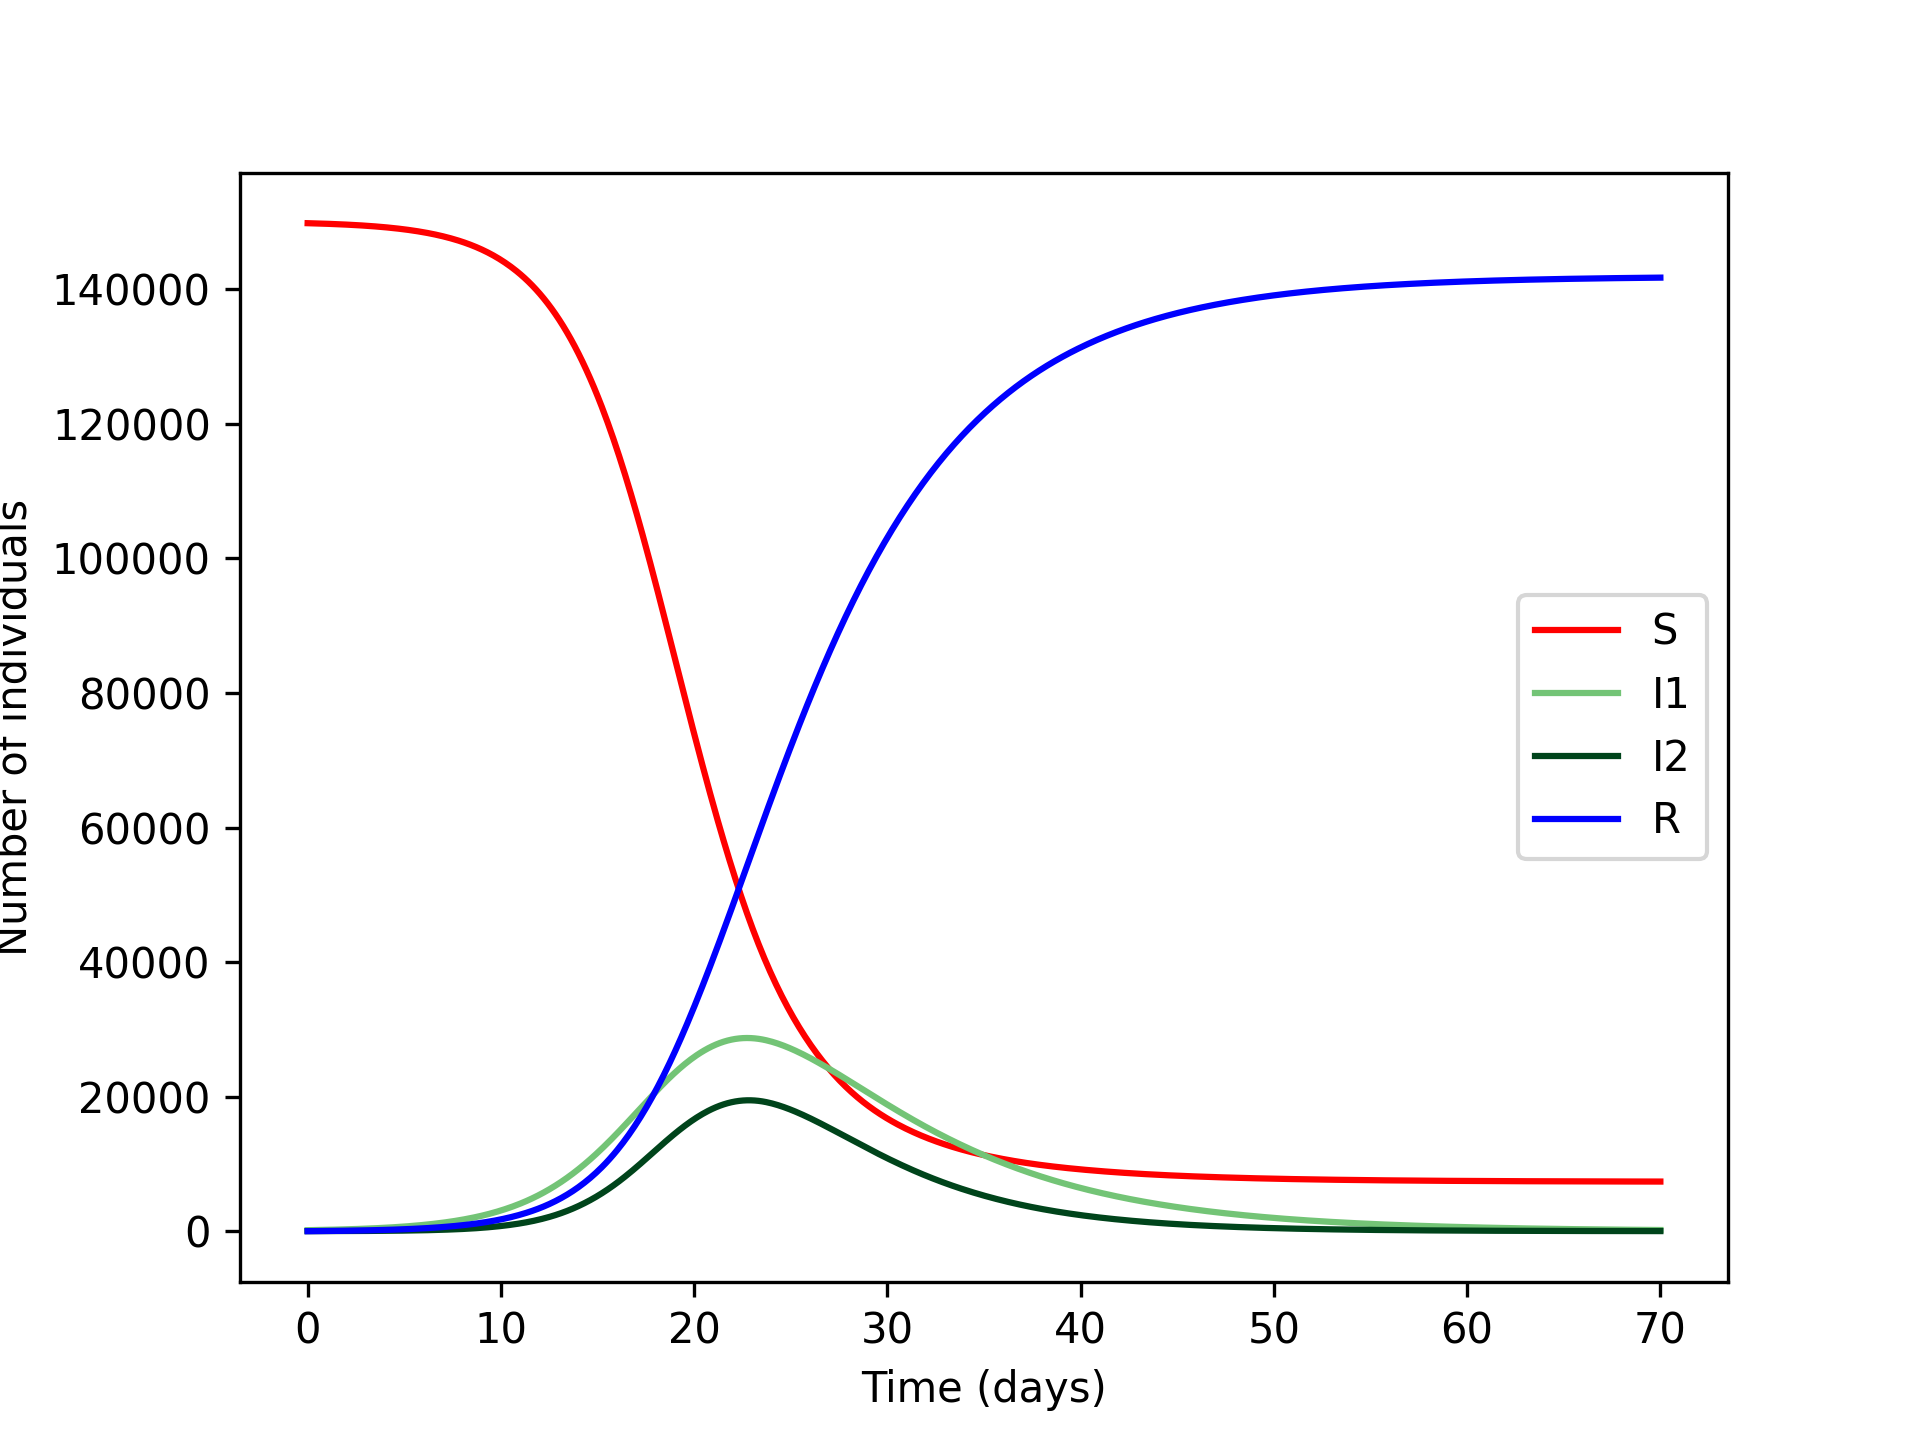
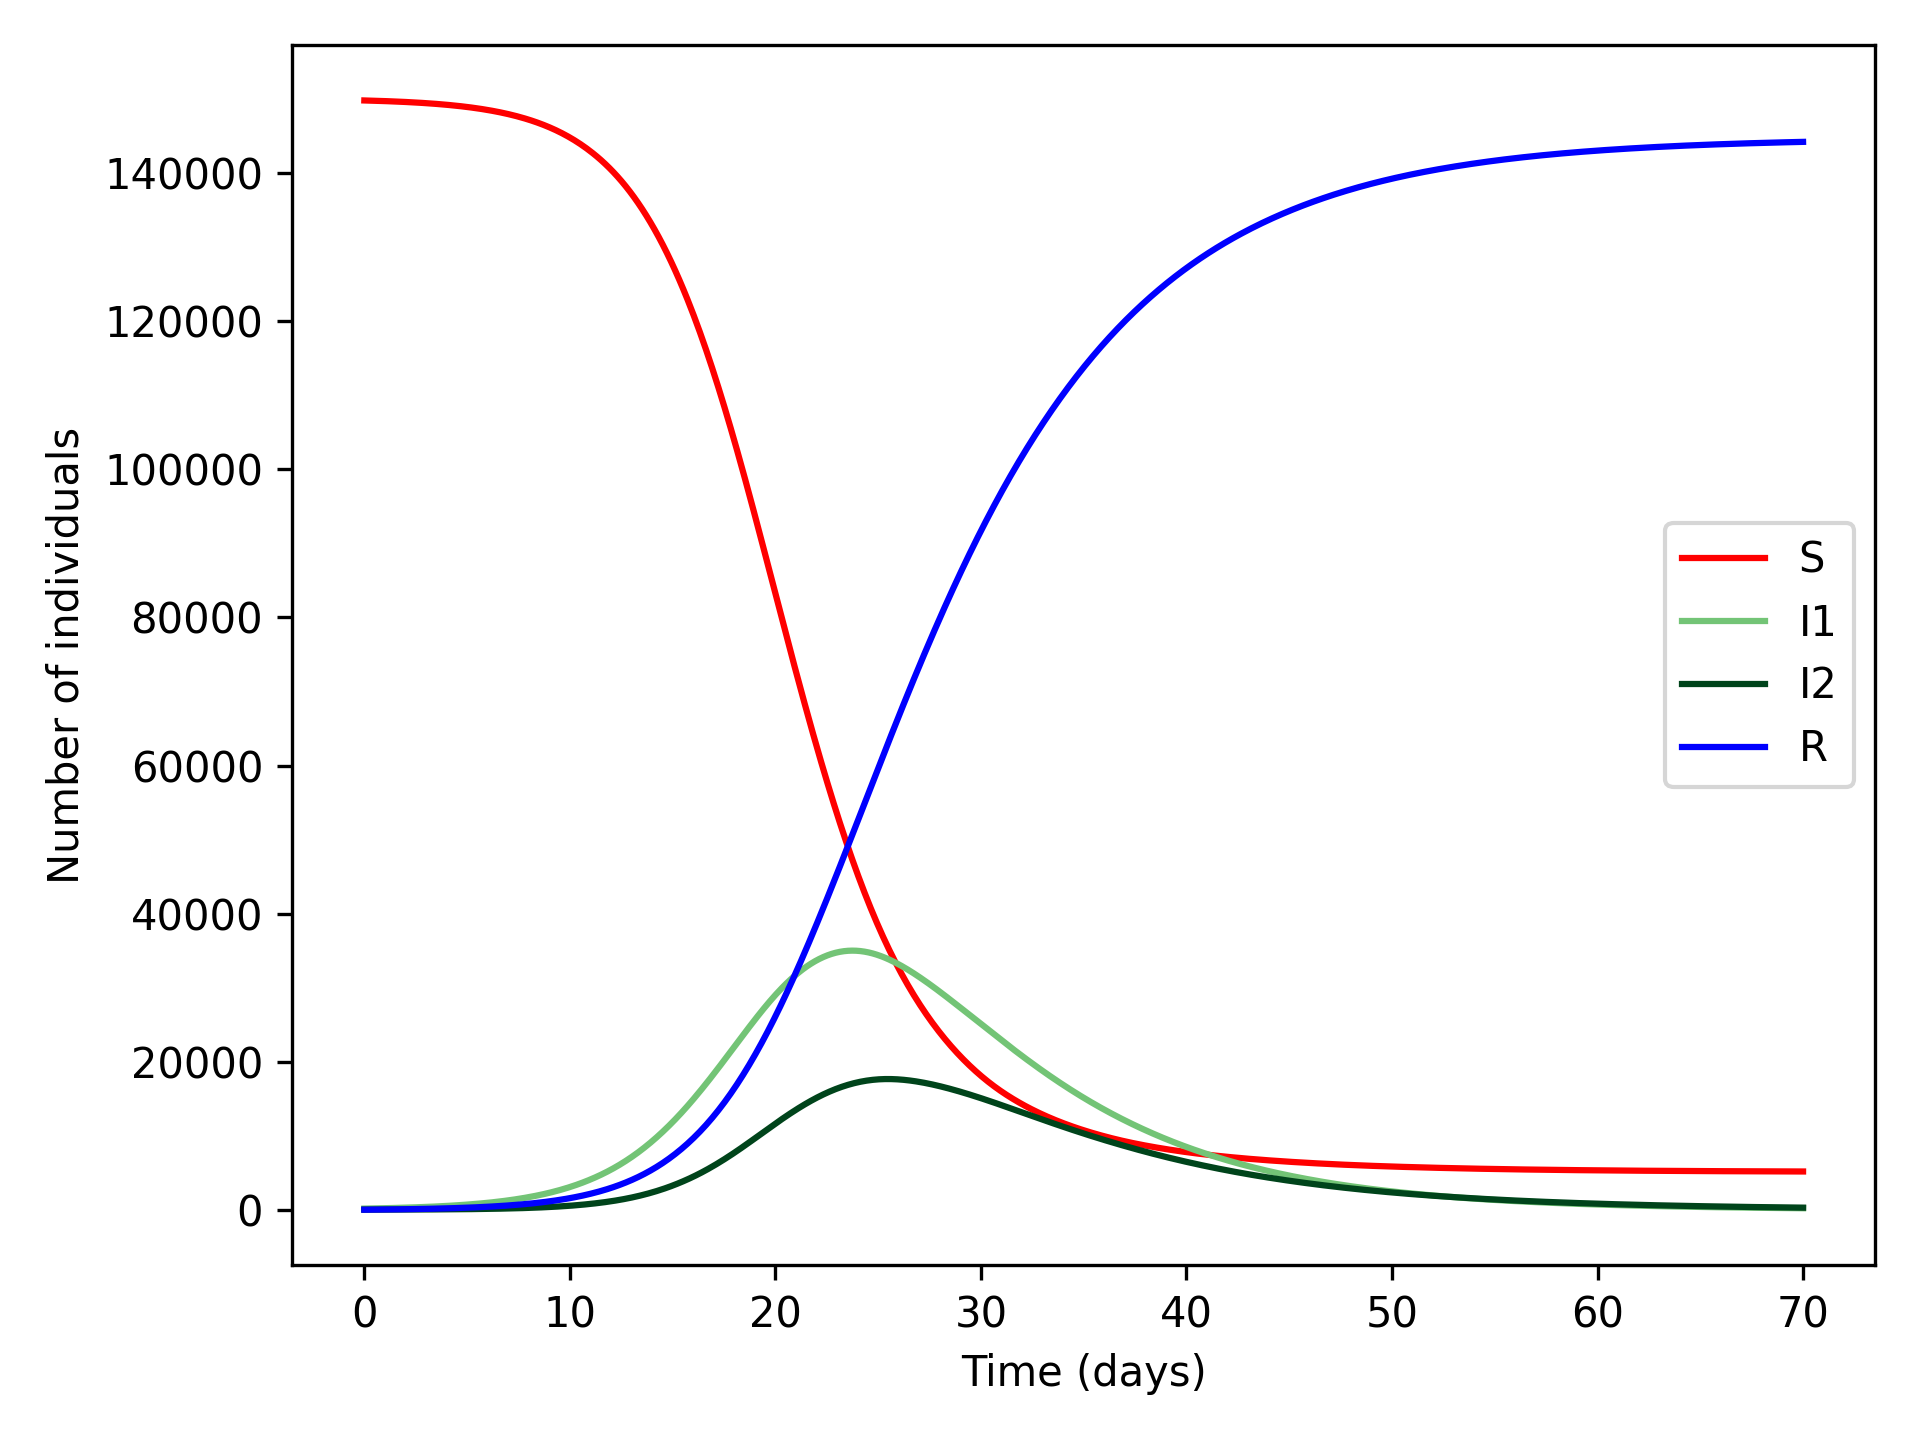
#49 Update example, readme and plot according to new inputs

diff --git a/example.py b/example.py
@@ -8,12 +8,12 @@ birth_rate_function = make_br(a=10.0, k=0.001)
 population = Population(death=0.000006, size=150000, birth_function=birth_rate_function)
 
 # Generate two strains to model.
-# Strain I1 has a death rate, alpha=0.00001, recovery rate, nu=0.143, and a transmission rate, beta=0.000003.
+# Strain I1 has a case fatality rate, CFR=0.00007, recovery time = 7 days, and an R0 = 3.14.
 # At the start of the simulation 150 individuals are infected with strain I1.
-# Strain I2 has a death rate, alpha=0.002, recovery rate, nu=0.2, and a transmission rate, beta=0.00000429.
+# Strain I2 has a case fatality rate, CFR=0.001, recovery time = 8 days, and an R0 = 4.22.
 # At the start of the simulation 10 individuals are infected with strain I2.
-I1 = Strain(alpha=0.00001, nu=0.143, beta=0.000003, infected=150)
-I2 = Strain(alpha=0.002, nu=0.2, beta=0.00000429, infected=10)
+I1 = Strain(CFR=0.00007, recovery_time=7, R0=3.14, infected=150)
+I2 = Strain(CFR=0.001, recovery_time=8, R0=4.22, infected=10)
 
 # Instantiate the Solver class, providing it with the population structure and the two strains to be modelled,
 # as well as the total time over which to run the simulation.
@@ -23,5 +23,5 @@ model = Solver(pop=population, strains=[I1, I2], time=70)
 model.solve()
 
 # Plot the results to be displayed, and not saved.
-model.plot_compartments()
-#model.save_compartments('epistrains_example.png')
+#model.plot_compartments()
+model.save_compartments('epistrains_example.png')

diff --git a/README.md b/README.md
@@ -30,10 +30,10 @@ Instantiate the population class with a death rate = 0.000006, and initial popul
 ``` python
 population = Population(death=0.000006, size=150000, birth_function=birth_rate_function)
 ```
-Generate two strains to model. Strain I1 has a death rate, alpha=0.00001, recovery rate, nu=0.143, and a transmission rate, beta=0.000003. This gives an R0 of 3.14. At the start of the simulation 150 individuals are infected with strain I1. Strain I2 has a death rate, alpha=0.002, recovery rate, nu=0.2, and a transmission rate, beta=0.00000429. This gives an R0 of 3.22. At the start of the simulation 10 individuals are infected with strain I2.
+Generate two strains to model. Strain I1 has a case fatality rate, CFR = 0.00007, recovery time = 7 days, and an R0 = 3.14. At the start of the simulation 150 individuals are infected with strain I1. Strain I2 has a case fatality rate, CFR = 0.001, recovery time = 8 days, and an R0 = 4.22. At the start of the simulation 10 individuals are infected with strain I2.
 ```python
-I1 = Strain(alpha=0.00001, nu=0.143, beta=0.000003, infected=150)
-I2 = Strain(alpha=0.002, nu=0.2, beta=0.00000429, infected=10)
+I1 = Strain(CFR=0.00007, recovery_time=7, R0=3.14, infected=150)
+I2 = Strain(CFR=0.001, recovery_time=8, R0=4.22, infected=10)
 ```
 Instantiate the Solver class, providing it with the population structure and the two strains to be modelled, as well as the total time over which to run the simulation.
 ```python
